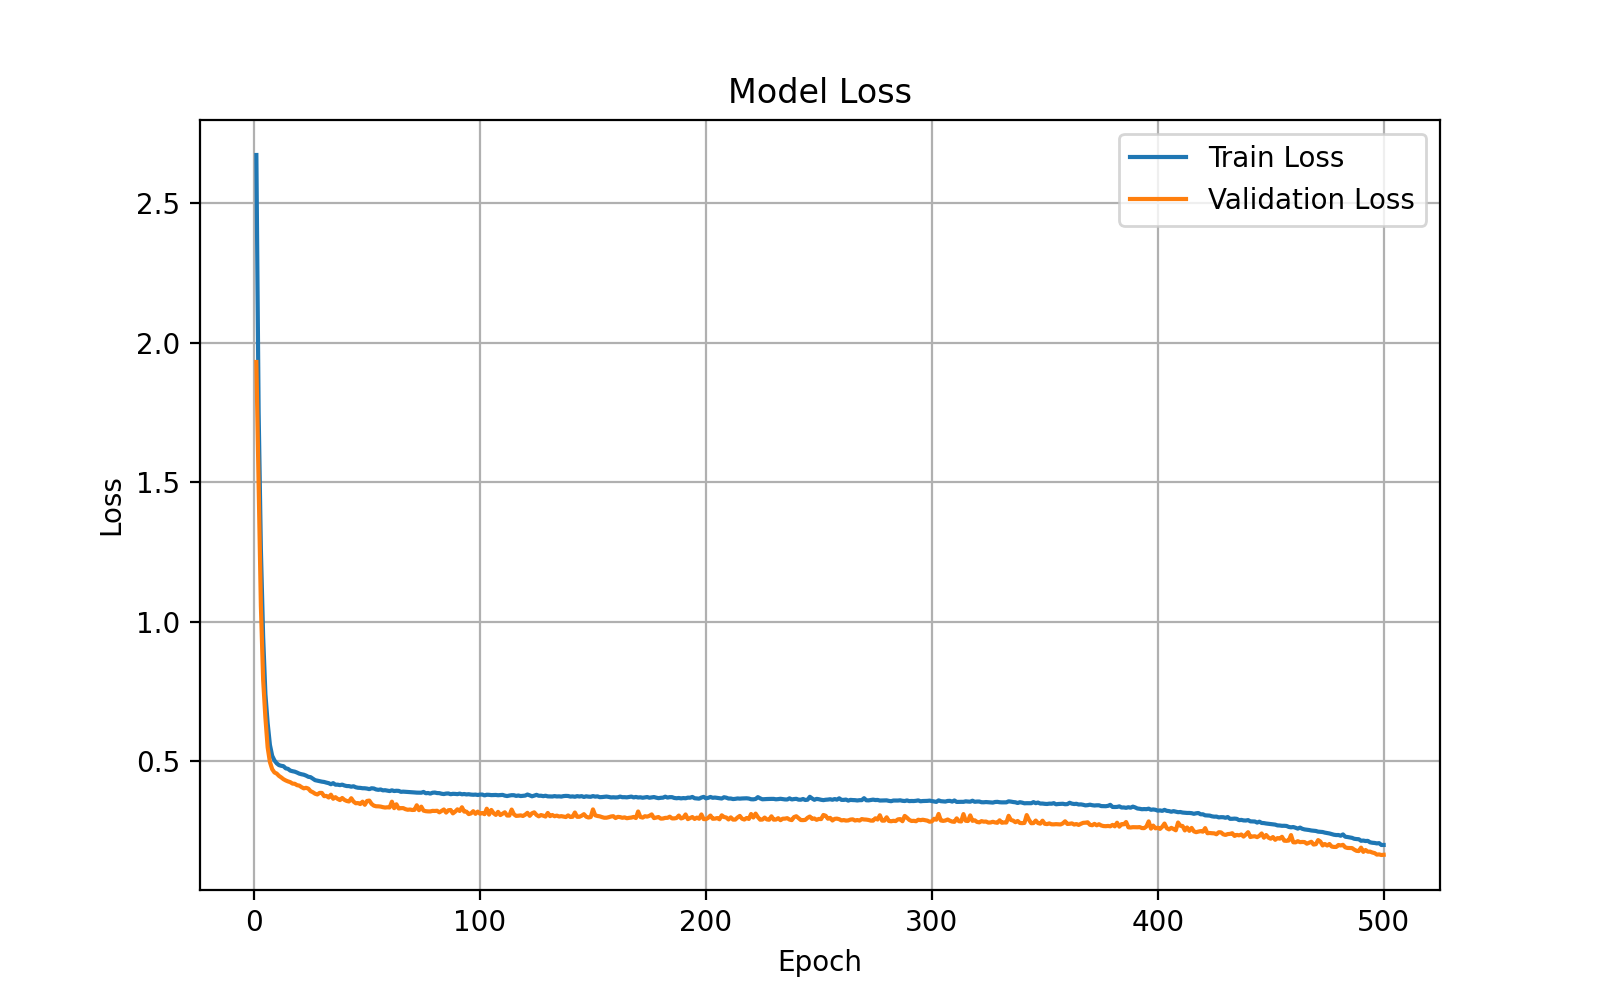
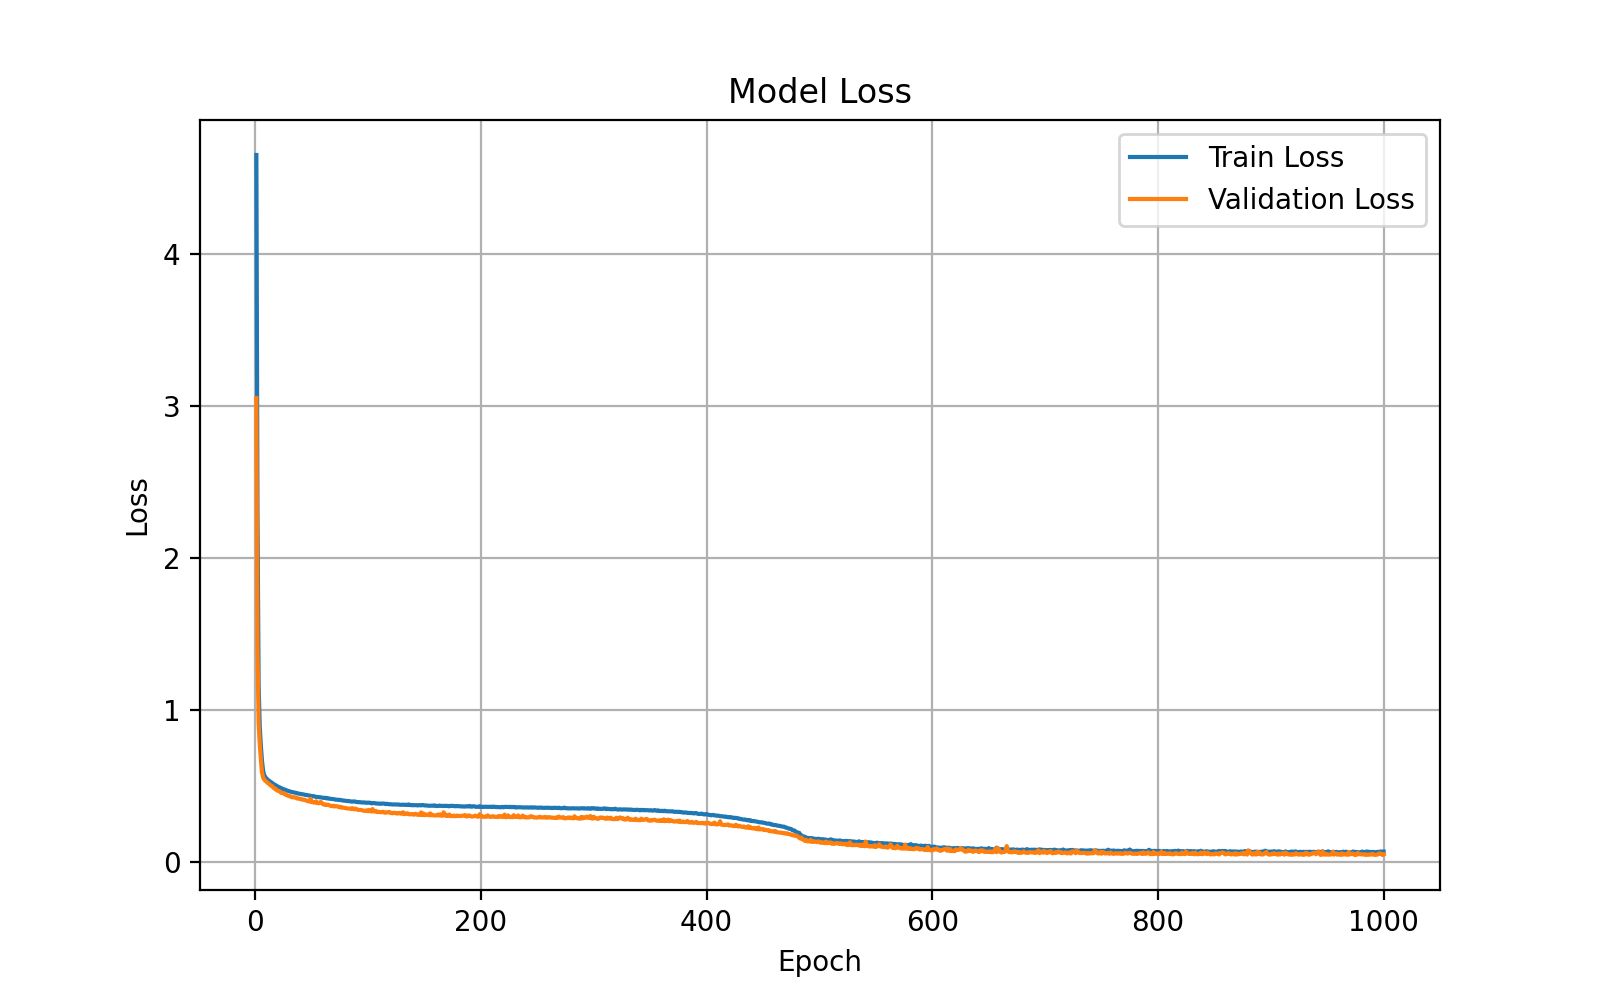
Fix: Reparameterize the model

diff --git a/python/TFL_For_MCU.py b/python/TFL_For_MCU.py
@@ -20,7 +20,7 @@ model = tf.keras.Sequential([
 ])
 
 model.compile(optimizer='adam', loss='binary_crossentropy', metrics=['accuracy'])
-history = model.fit(X_Train, Y_Train, epochs=500, batch_size=32, validation_data=(X_Test, Y_Test))
+history = model.fit(X_Train, Y_Train, epochs=1000, batch_size=64, validation_data=(X_Test, Y_Test))
 model.save('saved_model/' + PREFIX + '.keras')
 
 converter = tf.lite.TFLiteConverter.from_keras_model(model)
